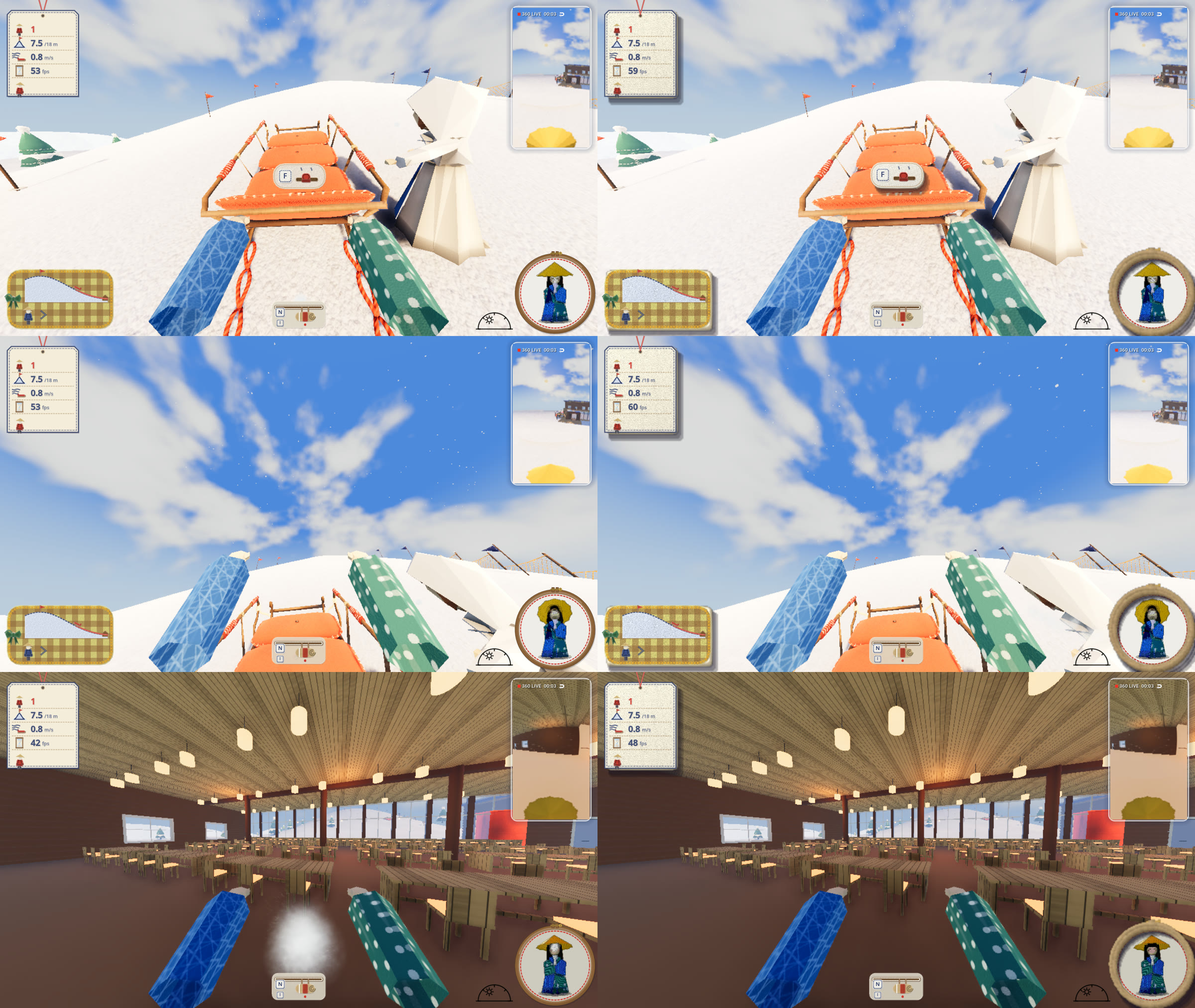
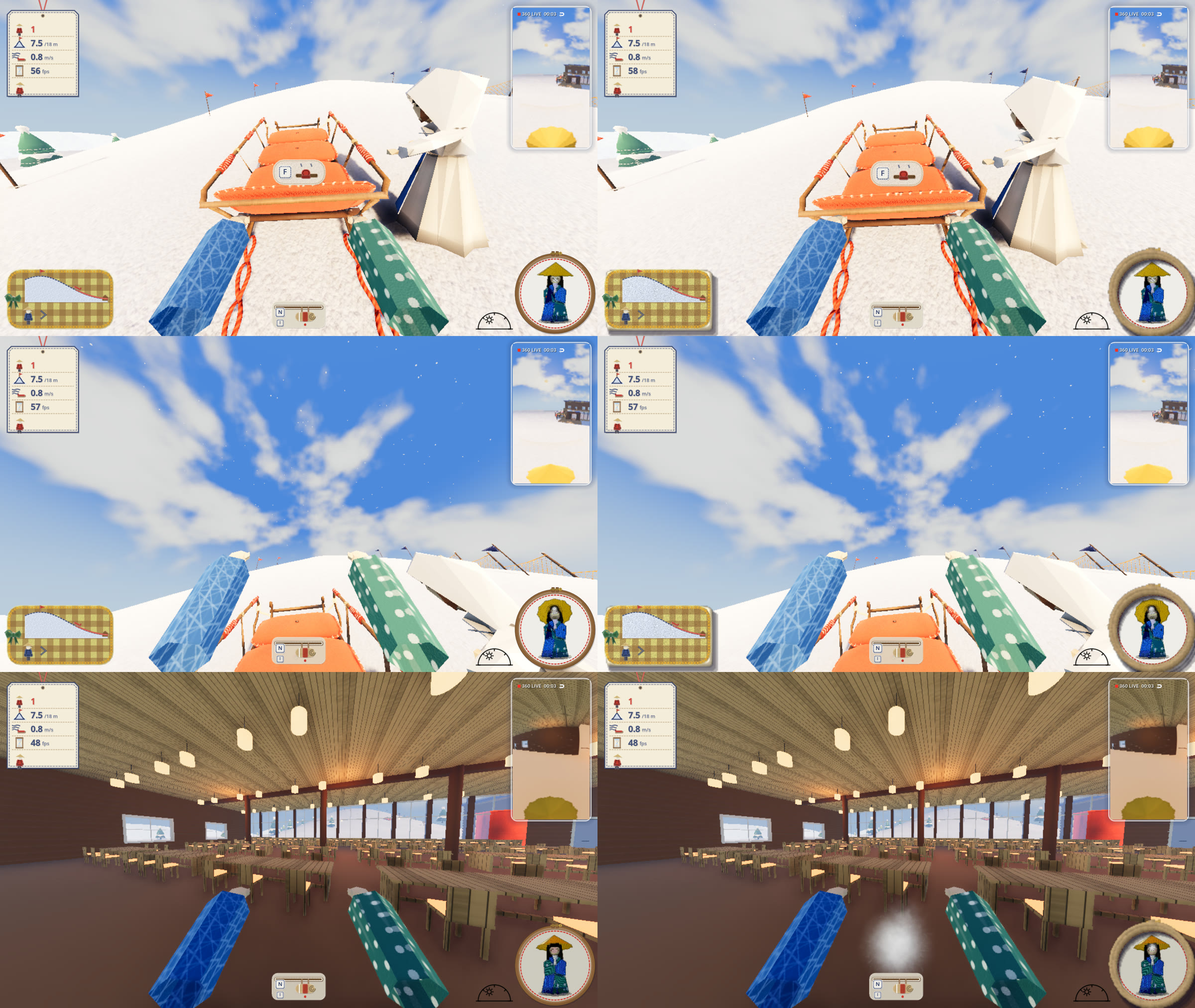
速さの表示を画面左の縦の帯にし、立体の板を名札・刺繍枠・速さの表示の 3 つに絞る
- 代表「糸巻きと縫い目は、画面左側の空いているところに置いて、縦向きに」を受けて、上にボビン、そこから糸が下りて
  フェルトのリボンの上を縫い目が下へ縫い進む縦の帯にする（確かめ用の札と名札のあいだ）。左右の端の縫い目はやめる
- 代表「操作のための HUD は立体じゃなくていい。タグと刺繍と糸巻きのスピード表現だけ」を受けて、板は名札・刺繍枠・
  速さの表示（ボビンとリボン）だけにし、ワッペン・持ち物の列・確かめ用の札は平らに戻す。操作の表示は風で揺らさない
- 前と後の絵（雪・空・ロッジの中、滑っているとき）を撮り直す

diff --git a/design/hud.md b/design/hud.md
@@ -118,9 +118,8 @@
   - **色**: 糸の色が、ソリのメインカラーから明るい山吹へ少しずつ変わる
 - **出すとき**: 乗って滑っているときだけ。止まって（1 m/s より遅いのが 1.2 秒続く）、ふわっと沈んで消える。登り・歩き・ロッジの中では出さない
 - **風とそろえる**: 盛り上がりは `ride_wind.gd` の `level_of` と同じ曲線（2 m/s から出て 9 m/s で 1）。その先（大のソリの下り・米袋の連打）も 15 m/s まで伸び続け、連打の速さの差が回り・糸・色の差になる
-- **視界の左右の端の縫い目**（代表「縫い目のやつ良い。でも視界に全然入ってこない」）: 目の高さの少し下から画面の下の角へ向かう 2 本の縫い目が、滑る速さで外へ縫い流れる。景色が横を流れていく向きと同じなので、目の端でも速さを感じる。速いほど太く・濃く・目が長く、10 m/s の先は 2 本目が並ぶ。景色の真ん中は空け、名札・360° 映像・小窓にはかからない。ボビンあり（既定）と縫い目だけを見比べ（[speedo-seams.jpg](hud/speedo-seams.jpg)。左上がボビンあり、右上が縫い目だけ、下は遅いとき・米袋の連打）、ボビンは縫い目の出どころとして残した。`--speedo=seams|bobbin|both` で切り替えて見比べられる
+- **置き場所は画面の左側の縦の帯**（代表「糸巻きと縫い目は、画面左側の空いているところに置いて、縦向きにしてほしい」）: 左上の確かめ用の札の下から、左下の名札の上のピンクッションの上まで。上にボビン、そこから糸が下りて、生成りのフェルトのリボンの上を縫い目が下へ縫い進む。速いほど縫い進むのが速く、太く・濃く・目が長く、10 m/s の先は 2 列。景色の真ん中はふさがない（[speedo-left-before-after.jpg](hud/speedo-left-before-after.jpg)、速さ別は [speedo-speeds.png](hud/speedo-speeds.png)）。前に試した「視界の左右の端の縫い目」（[speedo-seams.jpg](hud/speedo-seams.jpg)）と、下の端の右寄りの置き場所はやめた
 - **ご褒美**: 今日いちばんの速さを超えた瞬間と、10・13・15 m/s を超えた瞬間に、ボビンがぽんと跳ね、糸がぱっと広がり、縫い目に小さな結び目ができて流れていく（一回の滑りで一度ずつ）。ボビンのまわりの、今日いちばんの速さの角度に赤い待ち針
-- **置き場所**: 下の端の右寄り（右下の小窓と日時計の左）。左の持ち物・装備の枠に縫い目がかからない幅
 - **設定**: 「滑る速さの表示（糸巻き）」で切れる。大きさは HUD の大きさにそろう
 - **撮った絵**: 中のソリ・大のソリ・米袋を 1 秒に 10 回蹴る、の滑り出し・いちばん速い所・止まる所 [speedo-ride.jpg](hud/speedo-ride.jpg)。米袋 1 秒に 4 回（7 m/s 台）と 10 回（10 m/s 越え）の差 [speedo-mash.jpg](hud/speedo-mash.jpg)、動画 [hud-wind-sack-mash4.mp4](hud/hud-wind-sack-mash4.mp4)・[hud-wind-sack-mash.mp4](hud/hud-wind-sack-mash.mp4)
 - まだ: 連打勝負で、並んだほかの人のボビンを見比べる表示はない（いまは自分の画面だけ）。通信が入ったら、ほかの人の頭の上などに小さなボビンを出す案がある
@@ -133,7 +132,7 @@
 - **乗って滑っているあいだだけ**、HUD の手芸の物が風を受ける。止まると、ふわっと元に戻る（盛り上がりは速く、戻りはゆっくり）
   - 左上の吊るした札（確かめ用）: はとめを支点に、外（左）へなびいて揺れる
   - 左下の名札: 左の糸の輪を支点に、右の端が持ち上がり、右上の角がぱたぱためくれる
-  - 近くの手引きのワッペン・速さの表示（糸巻き）・持ち物の列・右下の小窓の刺繍枠: 小刻みにガタガタ震える
+  - 速さの表示（ボビンとリボン）・右下の小窓の刺繍枠: 小刻みにガタガタ震える。操作のワッペンと持ち物の列は揺らさない（2026-10-29 代表）
 - **読みやすさ**: 傾きは名札で 5° ほど、ワッペンや印は 2° と 2〜3 px ほど。風の強さは 1.3 で頭打ちにする。ガタガタ（コマごとの跳び）は速さの 2 乗で効くので、ゆっくりのときはほとんど動かない
 - **コマ撮り**: 揺れの時計は人形と同じ 12 コマ／秒に刻む（既定）。なめらか版と見比べる動画: [hud-wind-large-step.mp4](hud/hud-wind-large-step.mp4)（コマ撮り）・[hud-wind-large-smooth.mp4](hud/hud-wind-large-smooth.mp4)（なめらか）。`--hud-shake=smooth` でなめらかにできる
 - **酔い対策**: 設定「HUD が風で揺れる（滑るとき）」を切ると止まる。「視点の揺れ」を切ると 2 割の強さ
@@ -143,14 +142,14 @@
 
 代表の声「タグ、刺繍、糸巻き、どれも平面で背景と区別がつかないのが嫌です。少しでも立体のプレートにして、影とか付けて、マテリアル感がないと安っぽくてかなわないや。Blender で軽く作ってほしい」から。実装は `game/hud_plates.gd`、形は `props/build_hud.py`。
 
-- **板にしたもの**: 左下の名札、左上の吊るした札（確かめ用）、近くの手引きのワッペン、持ち物の列（紙の板）、ボビン（木）、右下の小窓の刺繍枠（木の輪と真鍮色のねじ）
-- **作り方**: 名札・札・ワッペン・持ち物の列は、大きさが場面で変わるので Godot で角の丸い板を組む（縁の丸み・厚み・裏）。ボビン・刺繍枠・はとめは Blender で作った glb（[plates-blender.png](hud/plates-blender.png)）
+- **板にしたもの（3 つだけ）**: 左下の名札（中の丘の窓ごと）、右下の小窓の刺繍枠（木の輪と真鍮色のねじ）、左の縦の速さの表示（ボビンと、縫い目を縫うフェルトのリボン）。操作のための表示（近づいたときのワッペン、持ち物の列、装備・売り台・ミシンの画面、身ぶりの輪、Esc の札）と確かめ用の札は平らなまま（代表「操作のための HUD は立体じゃなくていいですよ。タグと刺繍と糸巻きのスピード表現だけ」）
+- **作り方**: 名札とリボンは Godot で角の丸い板を組む（縁の丸み・厚み・裏）。ボビン・刺繍枠・はとめは Blender で作った glb（[plates-blender.png](hud/plates-blender.png)）
 - **見せ方**: 小さな 3D の場面に板を置き、奥行きを右下へずらして写す（斜めの写し方）ので、どの板も右下に厚みが見える。光は左上の手前から一つ。落ち影は、板の形を平たくつぶして奥へ 3 枚、右下へずらして薄く重ねる（影の地図を使わず軽い）
 - **印刷**: 中身（丘の窓・人の形・アイコン・数字）は、これまでの絵を画面の解像度のまま板の表に重ねる（字や印がぼけない）。印刷には紙・フェルトの凹凸の陰影と、左上が明るいむらをかける
-- **風**: 滑るときの揺れは、板を支点（名札は糸の輪、札ははとめ）のまわりに傾け、板だけ少しあおる。印刷も同じだけ傾く
+- **風**: 滑るときの揺れは、名札（糸の輪が支点）・リボン（ボビンから吊るす）・ボビン・刺繍枠と、吊るした確かめ用の札にだけかける。板を支点のまわりに傾け、板だけ少しあおる。操作のワッペンと持ち物の列は揺らさない
 - **重さ**: 3D の場面は画面の半分の解像度で、止まっているときは 2 コマに 1 回描く。M2・1600 × 900 で、押しているとき平らな絵と同じ 60 fps（上限）、滑っているとき 50 fps 前後で平らな絵と差なし。`--hud3d-scale=0.3〜1.0` で解像度、`--flat-hud` で前の平らな絵
 - **前と後**: 雪・空・ロッジの中の 3 つの背景で [plates-before-after.jpg](hud/plates-before-after.jpg)（左が前、右が後）
-- まだ: 装備の枠（N の米袋）と、売り台・ミシンの画面は平らなまま。ボビンと刺繍枠は半分の解像度なので、少しやわらかく見える
+- まだ: ボビンと刺繍枠は半分の解像度なので、少しやわらかく見える
 
 ## まだ決めていないこと
 
